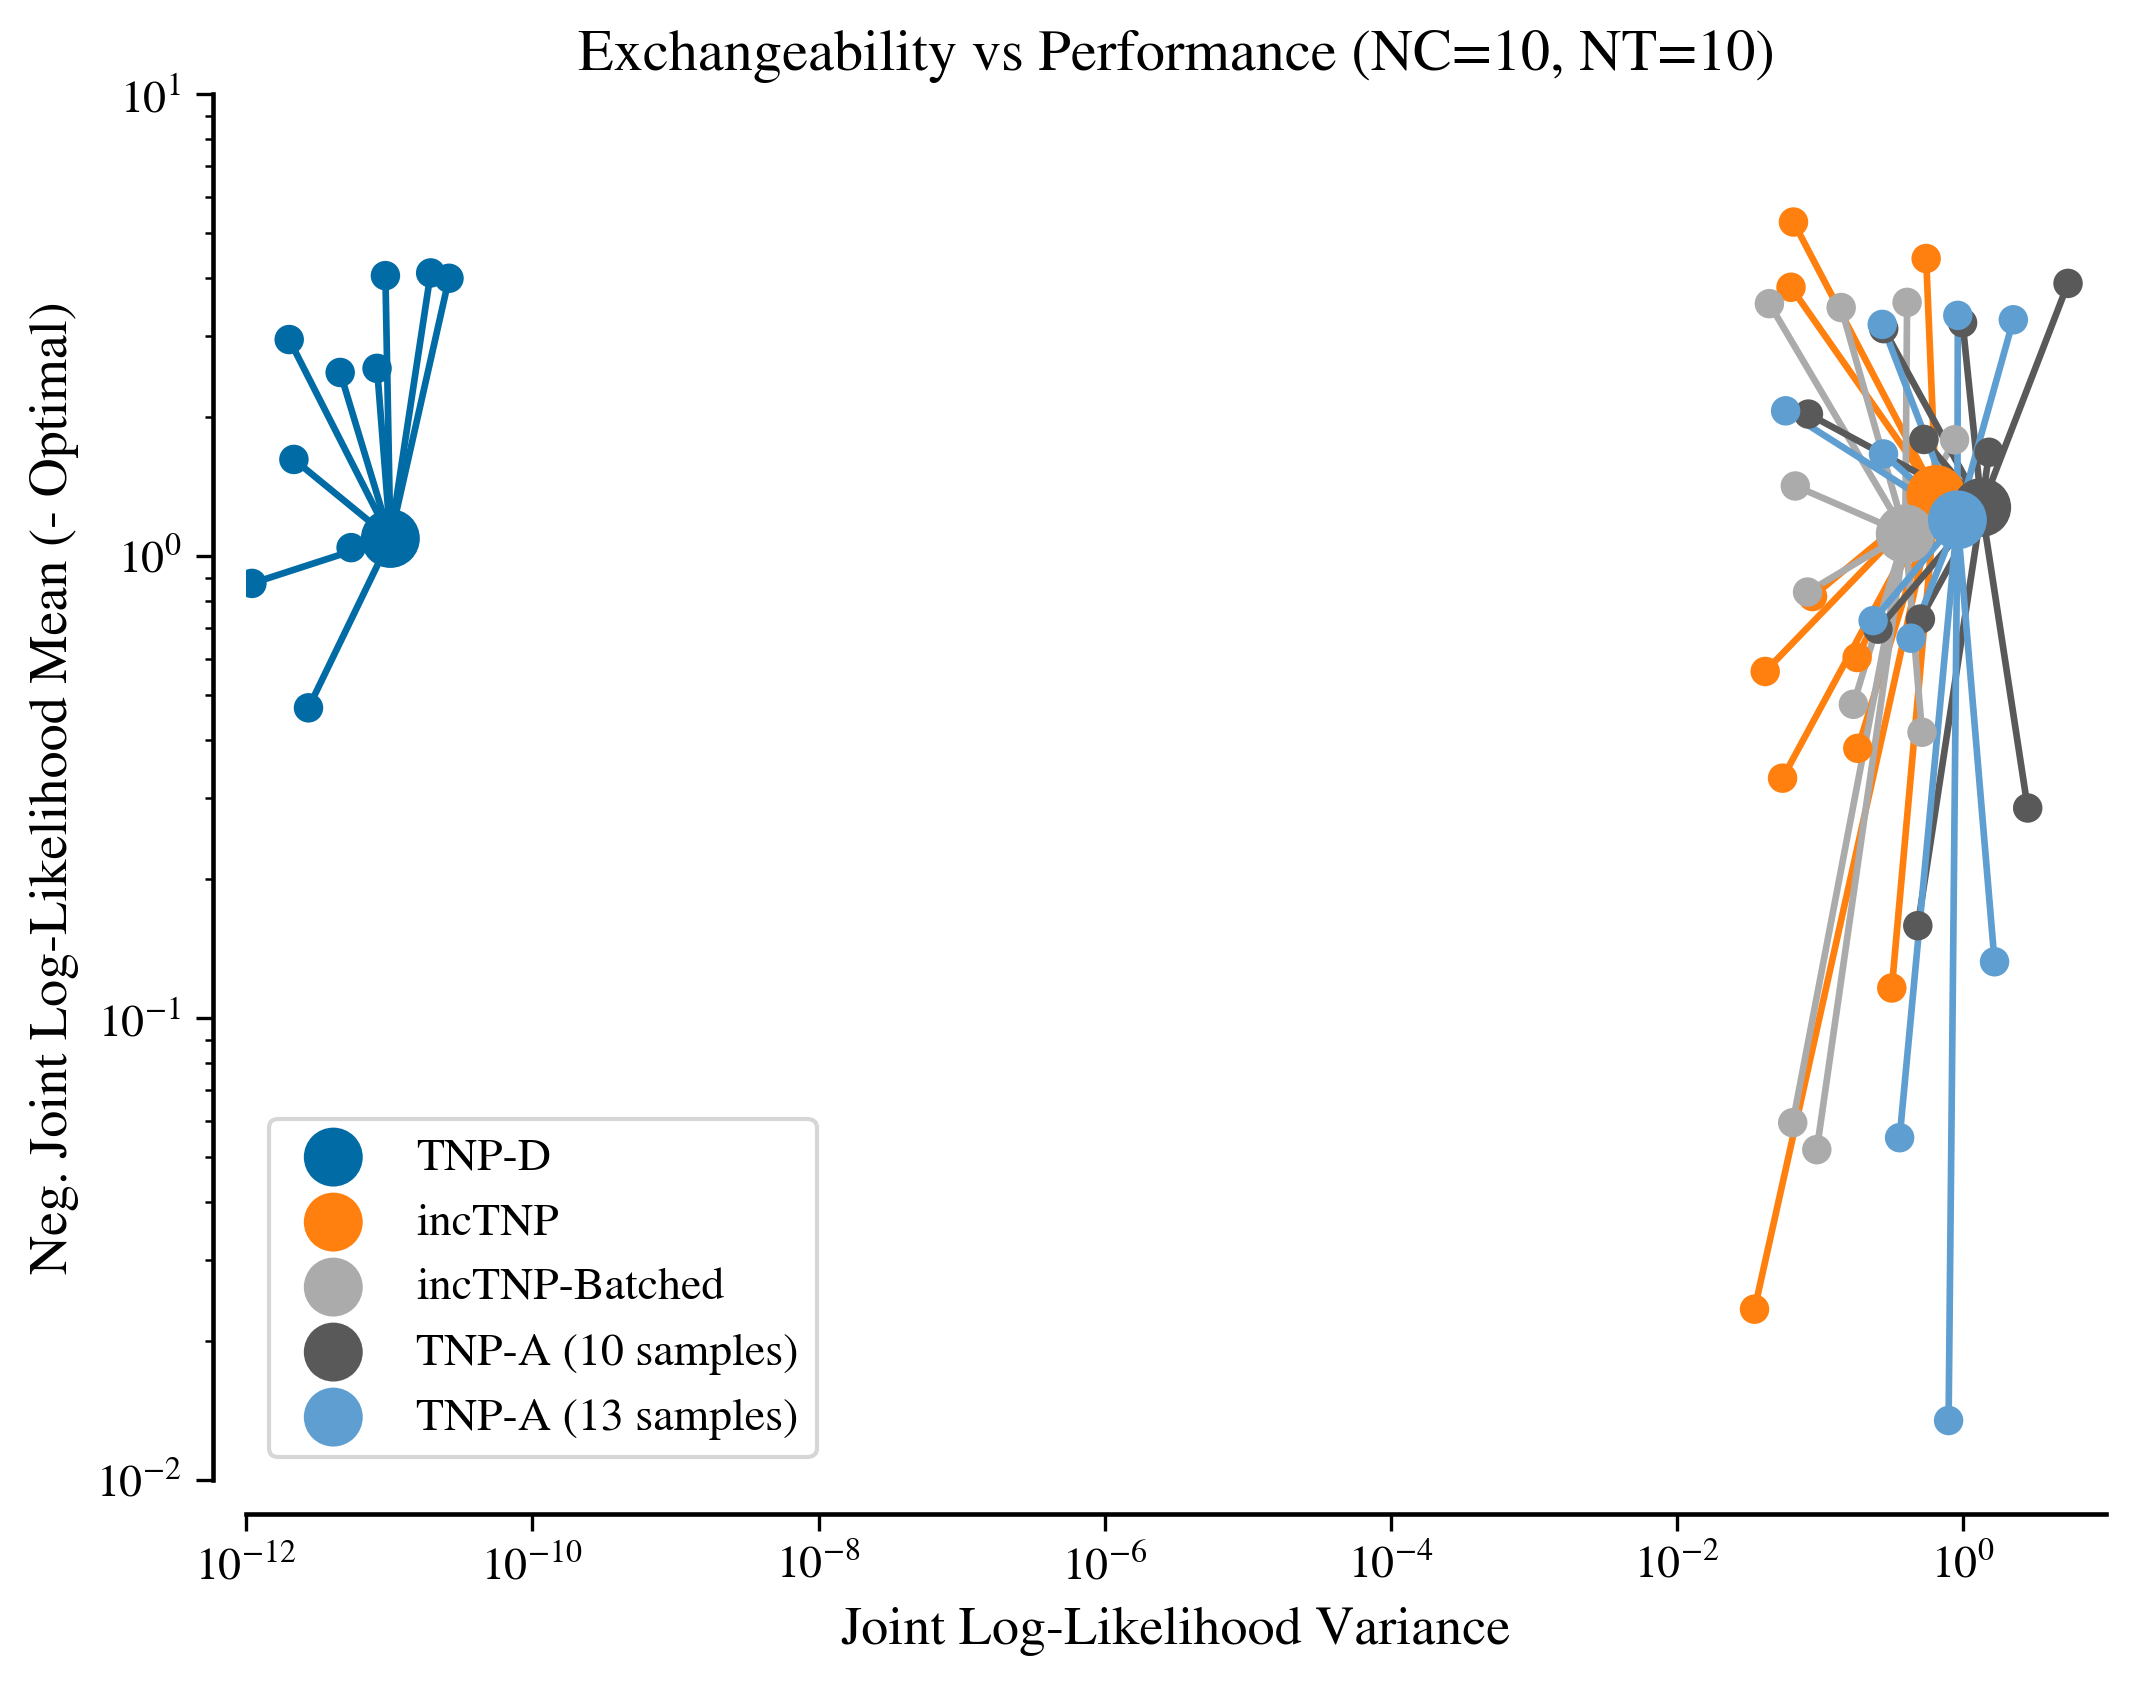
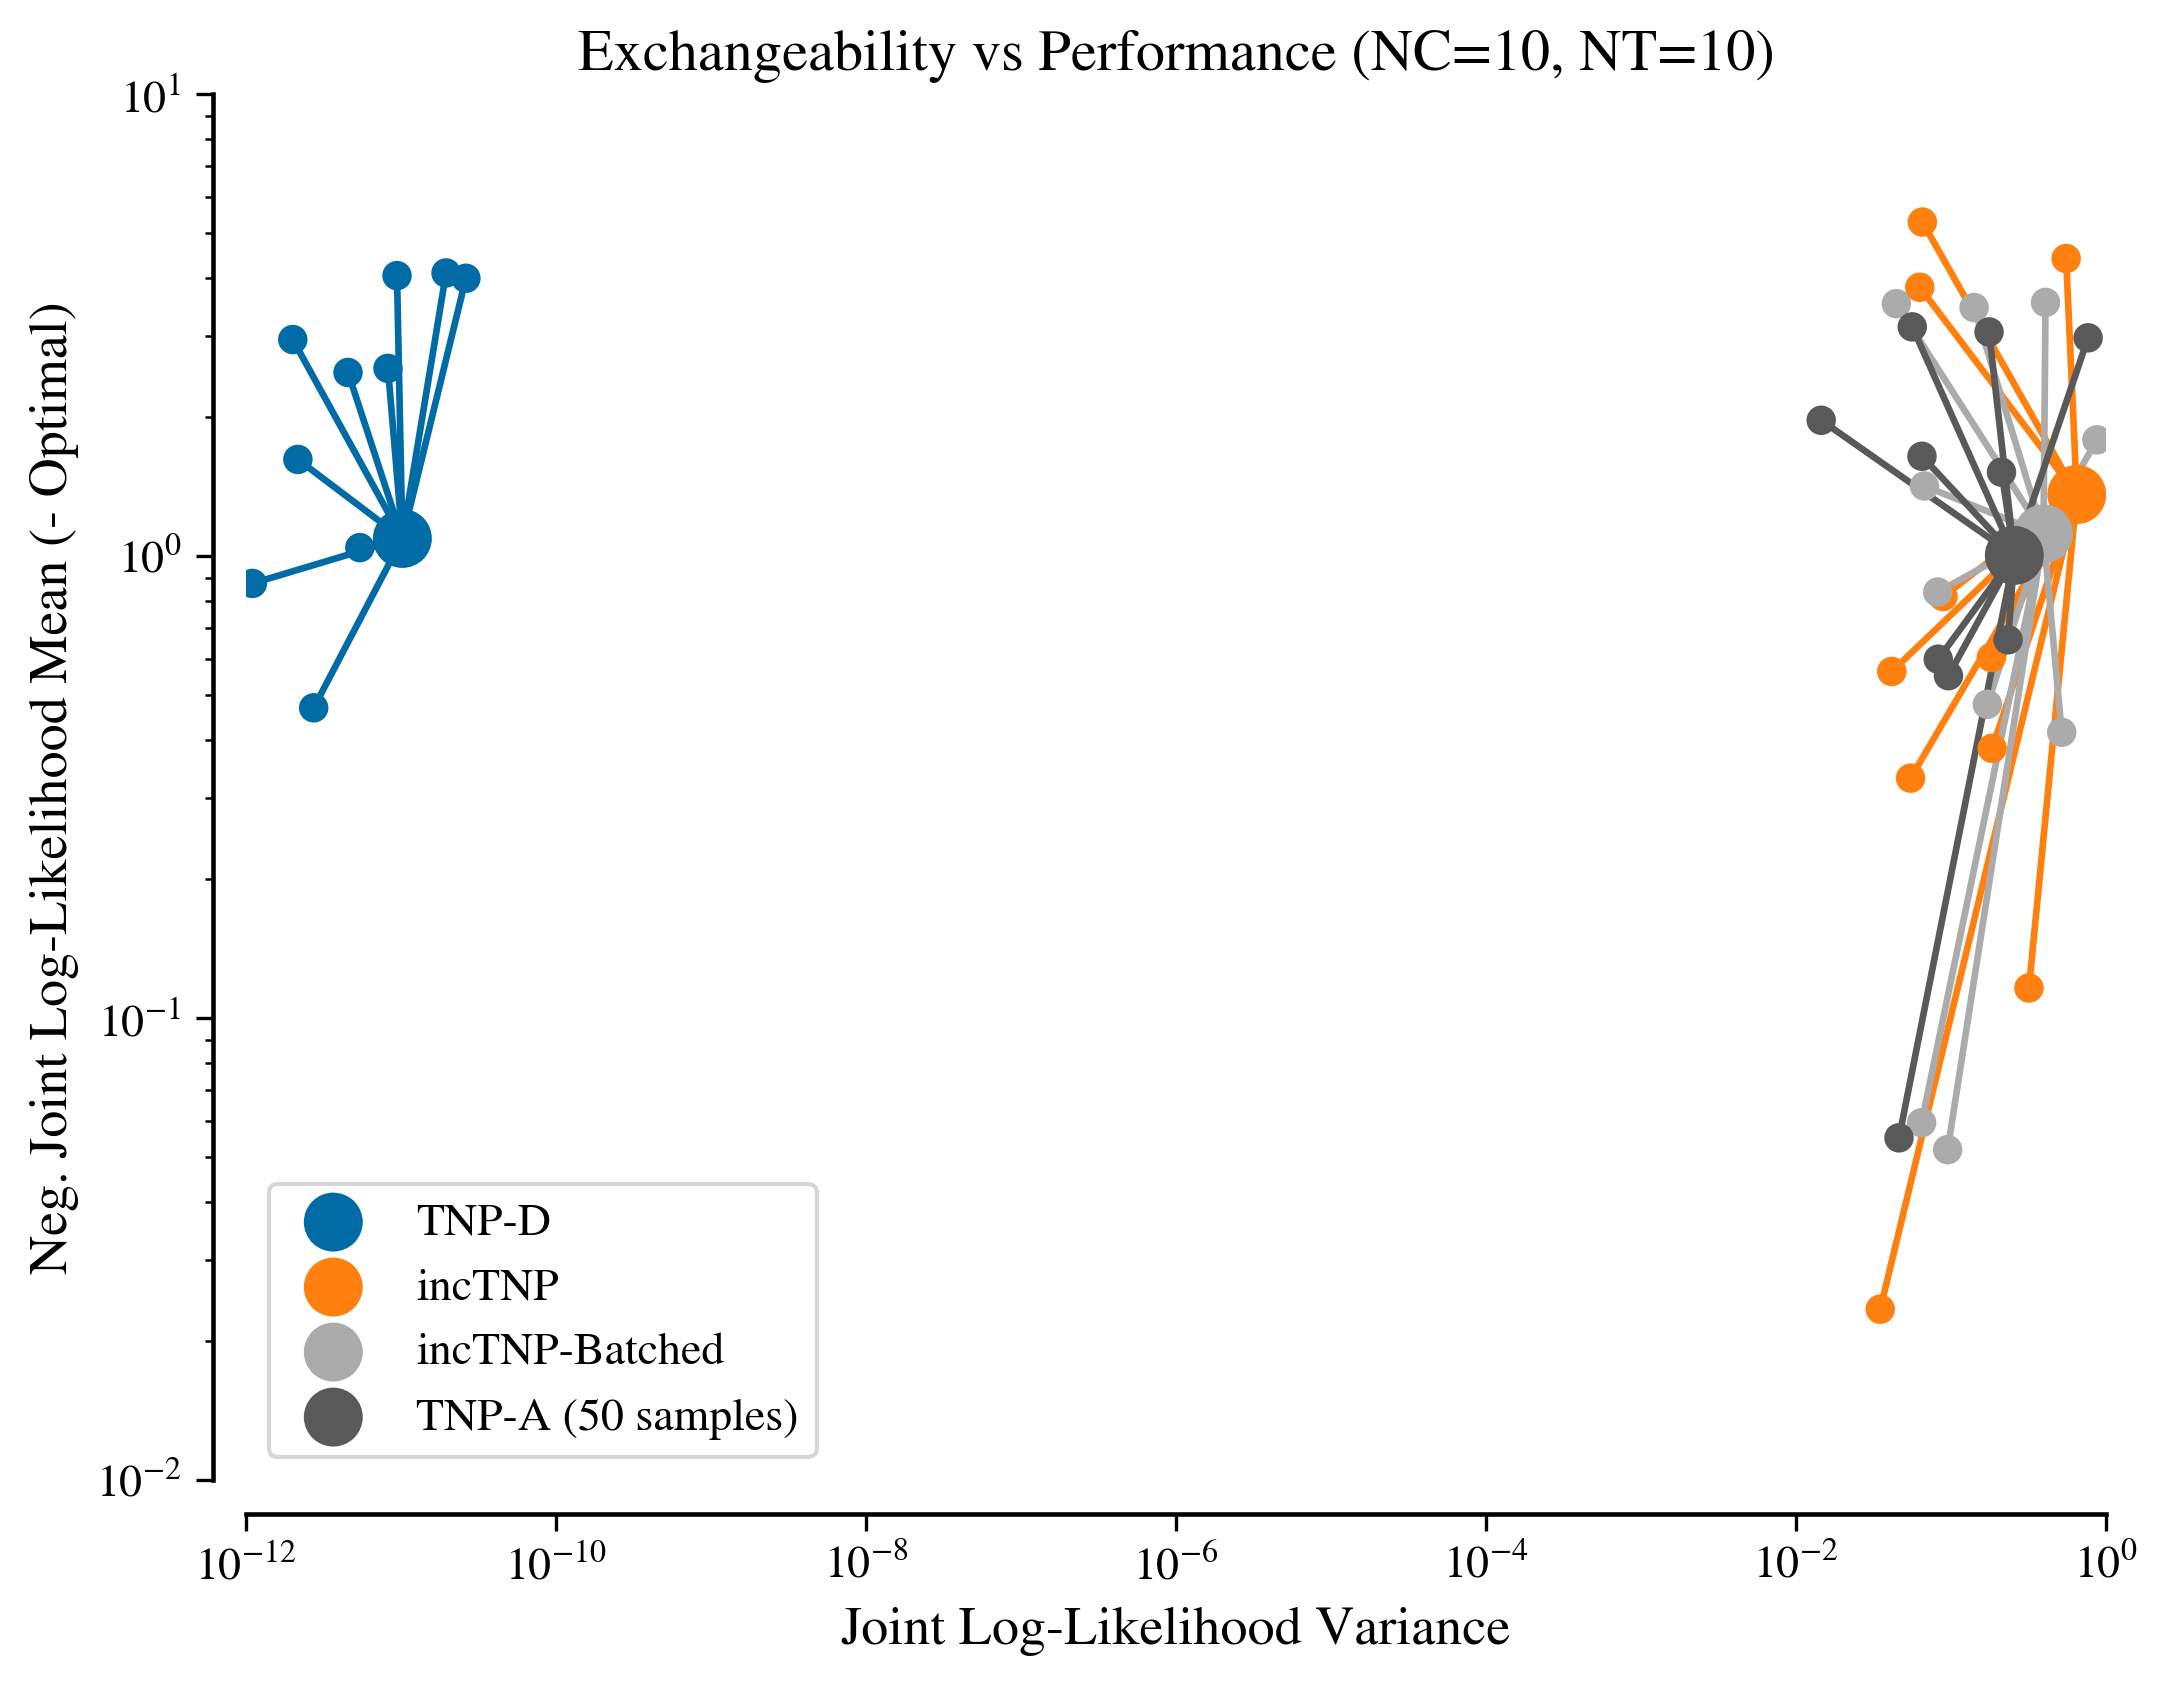
TNPA plot exchange

diff --git a/experiments/exchangeability.py b/experiments/exchangeability.py
@@ -53,7 +53,7 @@ matplotlib.rcParams.update({
 )
 def m_var_fixed(tnp_model, xc: torch.Tensor, yc: torch.Tensor, xt: torch.Tensor, yt: torch.Tensor, perms_ctx: torch.Tensor, 
     gt_pred, return_sample_index: Optional[int] = None,
-    sub_batch_size=2048,
+    sub_batch_size=1024,
     use_torch_grad: bool = False):
     with torch.set_grad_enabled(use_torch_grad):
         is_gp_model = isinstance(tnp_model, GPStreamRBF)
@@ -357,7 +357,7 @@ def plot_models_setup_rbf_same():
     tnp_ar_cptk, tnp_ar_yml, tnp_name = 'experiments/configs/synthetic1dRBF/gp_tnpa_rangesame.yml', 'pm846-university-of-cambridge/tnpa-rbf-rangesame/model-wbgdzuz5:v200', "TNP-A"
     tnp_ar_100 = [tnp_ar_cptk, tnp_ar_yml, tnp_name, 100]
     tnp_ar_50 = [tnp_ar_cptk, tnp_ar_yml, tnp_name, 50]
-    tnp_ar_10 = [tnp_ar_cptk, tnp_ar_yml, tnp_name, 20]
+    tnp_ar_10 = [tnp_ar_cptk, tnp_ar_yml, tnp_name, 50]
     tnp_ar_20 = [tnp_ar_cptk, tnp_ar_yml, tnp_name, 20]
     models_ar = [tnp_ar_10, tnp_ar_20]
 
@@ -421,7 +421,7 @@ def generate_folder_name(nc, nt, samples_per_epoch, no_permutations, batch_size,
 def plot_from_folder(folder):
     # Plot hypers
     max_samples_plot = 10 # Max number of samples
-    filter_ugly_thres = 0.0 #  Values not to include on plot
+    filter_ugly_thres = 0.005 #  Values not to include on plot
     max_dist_from_centroid = 100
     # End of plot hypers
 
